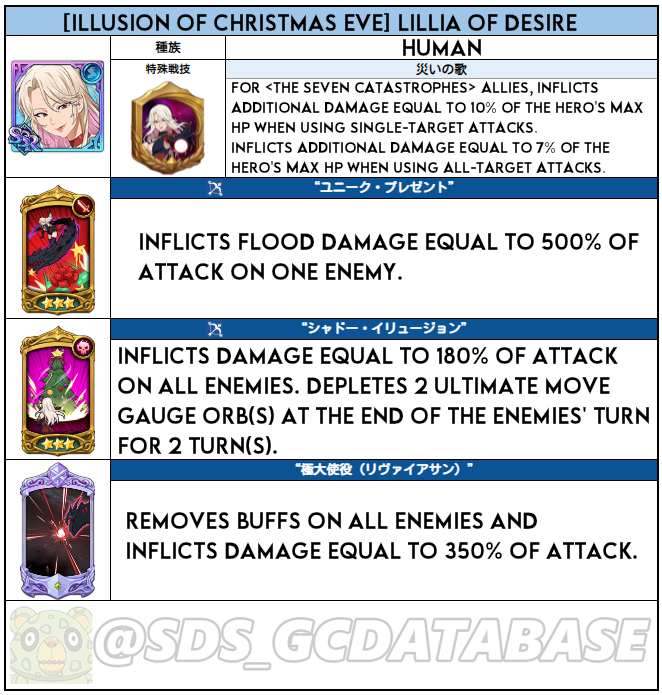
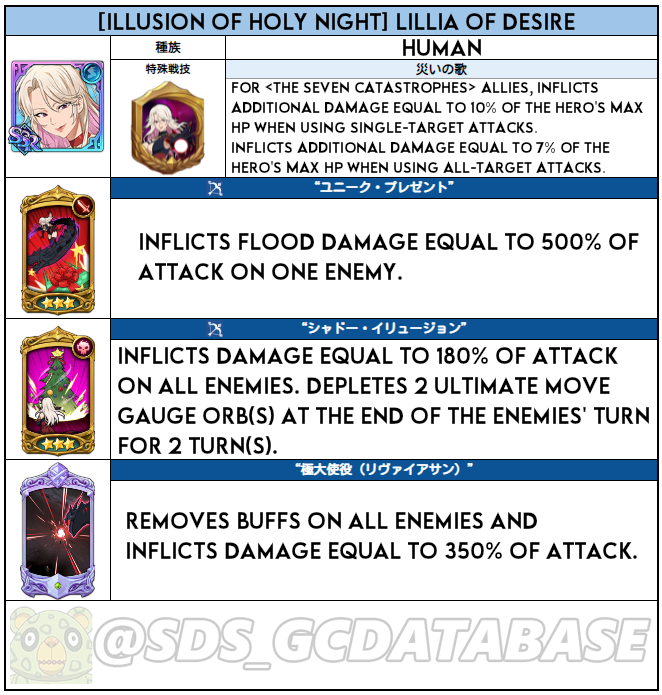
sdfasf

Changed region(s): [[0.0906, 0.0, 0.8761, 0.0604]]

diff --git a/archives/patchnotes/18dec19.html b/archives/patchnotes/18dec19.html
@@ -193,7 +193,7 @@
 					</div>
 				</div>
 				<div>
-					<h4 class="p-3 mb-0" style="color: #6aa84f"><b><a style="color: #ff0000">●</a> Christmas Event <a style="color: #ff0000">●</a></b></h4>
+					<h4 class="p-3 mb-0" style="color: #6aa84f"><b><a style="color: #ff0000">●</a> Holy Nightnt <a style="color: #ff0000">●</a></b></h4>
 					<h4 class="pl-3 pl-3 pb-3 mb-0"><a style="color: #ff0000">●</a><a style="color: #6aa84f">●</a><a style="color: #ff0000">●</a><a style="color: #6aa84f">●</a> Presents from Tree of Blessing Event <a style="color: #ff0000">●</a><a style="color: #6aa84f">●</a><a style="color: #ff0000">●</a><a style="color: #6aa84f">●</a></h4>
 					<div class="greytheme whitetext" style="padding: 0.5rem 1rem;">
 						<div class="container pb-3 img-responsive" style="text-align: center; justify-content: center;">
@@ -211,7 +211,7 @@
 						<p>※ You will not be able to collect more gifts from the tree of blessing after the 9th day</p>
 					</div>
 
-					<h4 class="p-3 mb-0"><a style="color: #ff0000">●</a><a style="color: #6aa84f">●</a><a style="color: #ff0000">●</a><a style="color: #6aa84f">●</a> Coin Shop Christmas Event <a style="color: #ff0000">●</a><a style="color: #6aa84f">●</a><a style="color: #ff0000">●</a><a style="color: #6aa84f">●</a></h4>
+					<h4 class="p-3 mb-0"><a style="color: #ff0000">●</a><a style="color: #6aa84f">●</a><a style="color: #ff0000">●</a><a style="color: #6aa84f">●</a> Coin Shop Holy Nightnt <a style="color: #ff0000">●</a><a style="color: #6aa84f">●</a><a style="color: #ff0000">●</a><a style="color: #6aa84f">●</a></h4>
 					
 					<div class="greytheme whitetext" style="padding: 0.5rem 1rem;">
 						<p class="pl-3 pl-3 pb-3 mb-0"><a style="color: #ff0000">●</a><a style="color: #6aa84f">●</a><a style="color: #ff0000">●</a><a style="color: #6aa84f">●</a> Christmas Socks <a style="color: #ff0000">●</a><a style="color: #6aa84f">●</a><a style="color: #ff0000">●</a><a style="color: #6aa84f">●</a></p>

diff --git a/archives/devnotes/13dev19.html b/archives/devnotes/13dev19.html
@@ -141,7 +141,7 @@
                     </div>
                     <h4 class="p-3">4. Christmas Update</h4>
                     <div class="greytheme whitetext" style="padding: 0.5rem 1rem;">
-                        <p style="color: #2890d8"><b>A. Christmas Event [Gift from the Blessing Tree]</b></p>
+                        <p style="color: #2890d8"><b>A. Holy Nightnt [Gift from the Blessing Tree]</b></p>
                         <p>During the event period, a small [Blessing Tree] will appear in the [Pub].</p>
                         <p>The tree will send out various gifts once a day.</p>
                         <div class="container pb-3 img-responsive" style="text-align: center; justify-content: center;">

diff --git a/lilliaskills.html b/lilliaskills.html
@@ -99,7 +99,7 @@
 
 			<div class="greytheme whitetext mb-3" style="padding: 0.5rem 1rem;">
 
-				<p><b><u>■ SSR &#91;Illusion of Christmas Eve&#93; Lillia of Desire</u></b><br><a href="https://youtu.be/l0iLpiPj1Yc">(click for ult animation)</a></p>
+				<p><b><u>■ SSR &#91;Illusion of Holy Night&#93; Lillia of Desire</u></b><br><a href="https://youtu.be/l0iLpiPj1Yc">(click for ult animation)</a></p>
 				<div class="container pb-3 img-responsive" style="text-align: center; justify-content: center;">
 					<img src="images/patchnotes/9dec2021/lillia.png" style="max-width:100%; max-height:100%;" loading="lazy">
 				</div>

diff --git a/patchnotes.html b/patchnotes.html
@@ -99,7 +99,7 @@
 
 			<div class="greytheme whitetext mb-3" style="padding: 0.5rem 1rem;">
 
-				<p><b><u>■ SSR &#91;Illusion of Christmas Eve&#93; Lillia of Desire</u></b><br><a href="https://youtu.be/l0iLpiPj1Yc">(click for ult animation)</a></p>
+				<p><b><u>■ SSR &#91;Illusion of Holy Night&#93; Lillia of Desire</u></b><br><a href="https://youtu.be/l0iLpiPj1Yc">(click for ult animation)</a></p>
 				<div class="container pb-3 img-responsive" style="text-align: center; justify-content: center;">
 					<img src="images/patchnotes/9dec2021/lillia.png" style="max-width:100%; max-height:100%;" loading="lazy">
 				</div>
